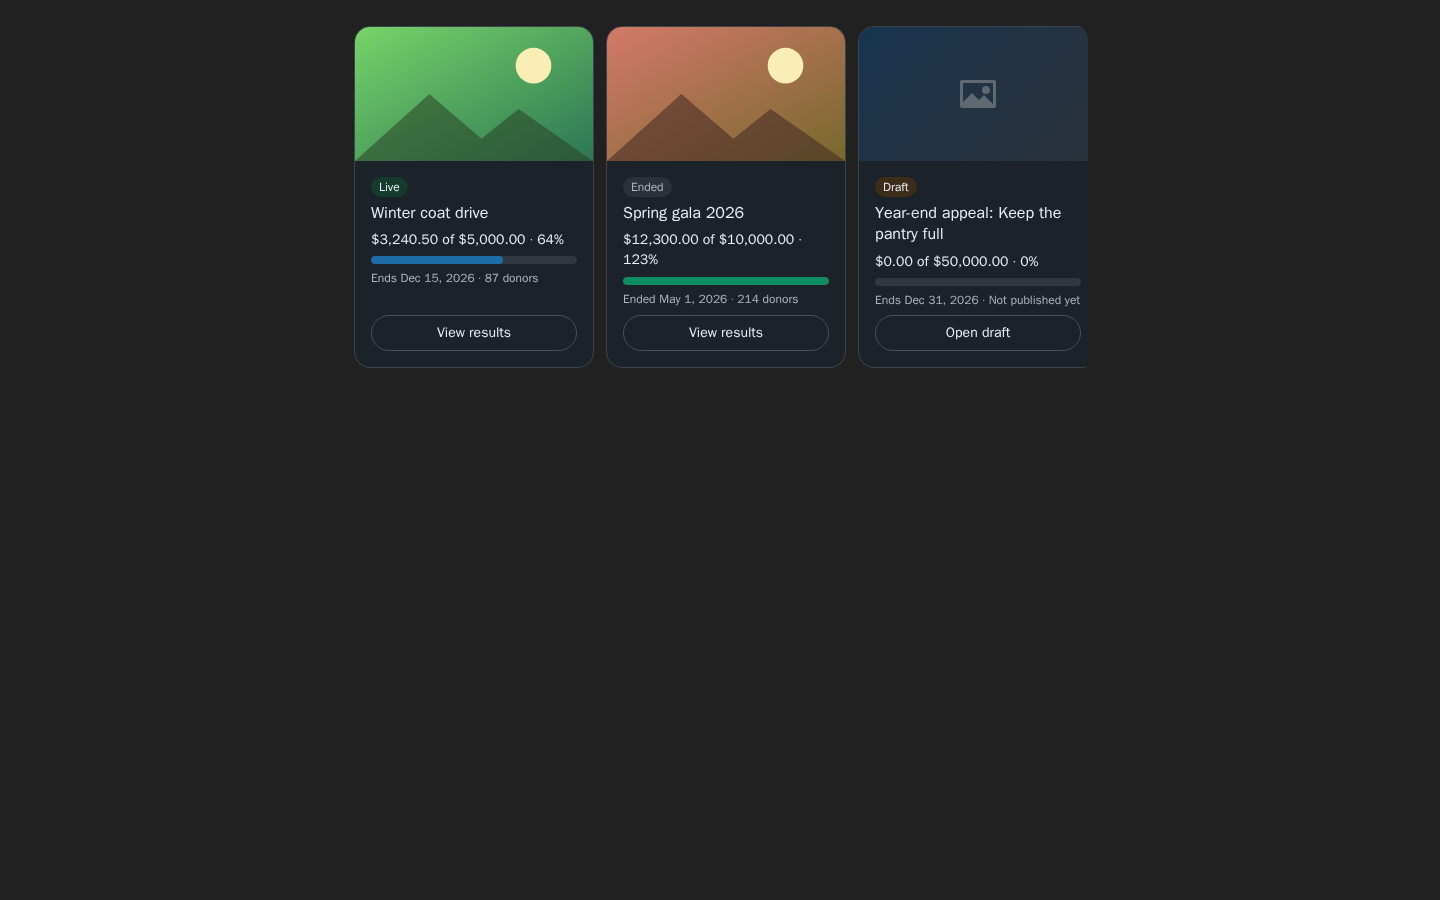
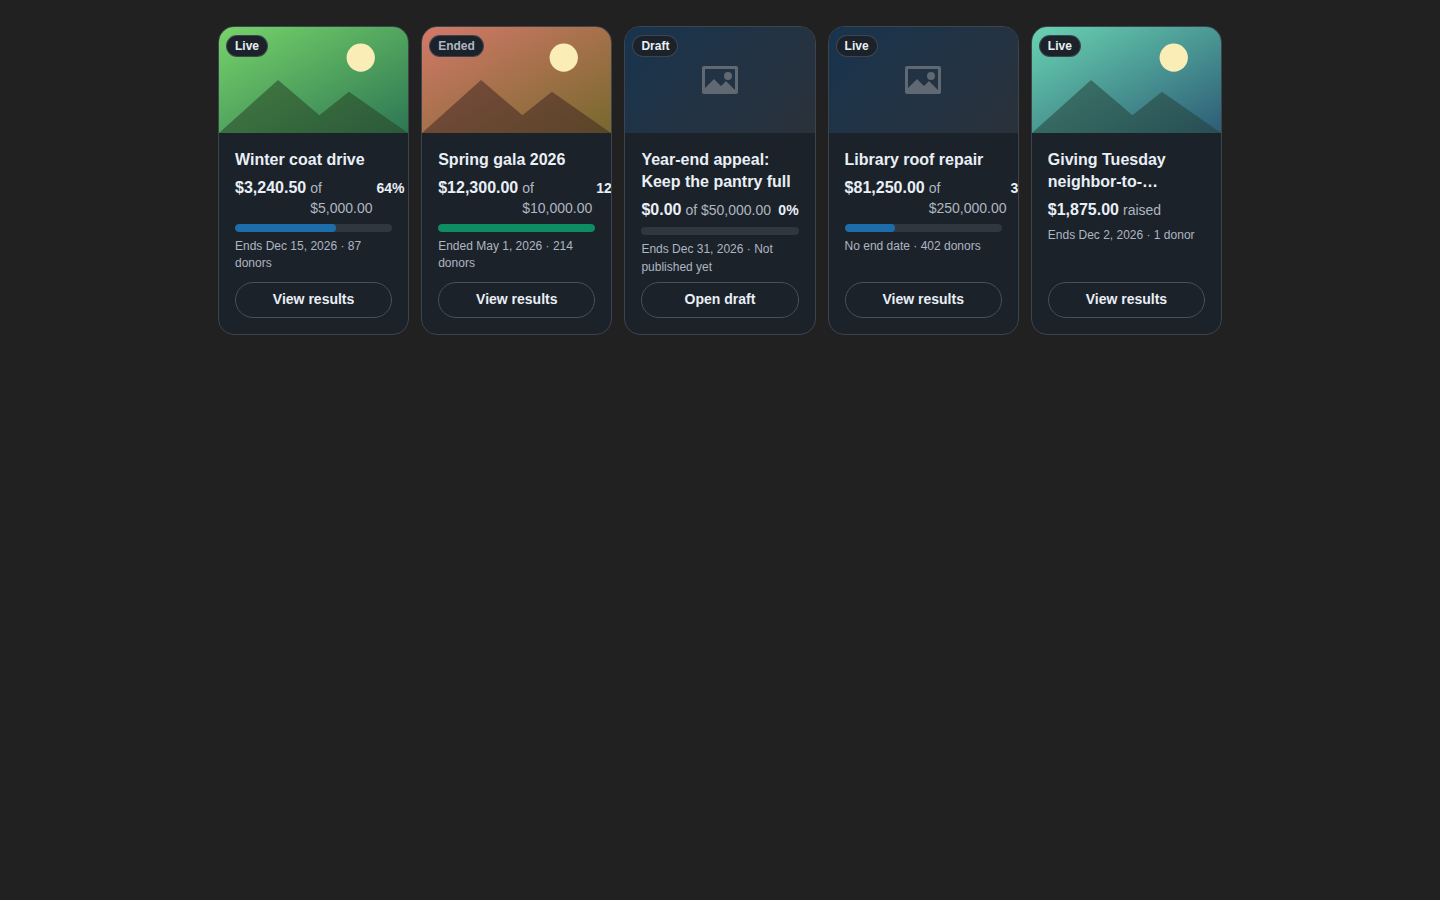
Show every campaign card at once in a wide column and lead with the raised amount

Changed region(s): [[0.125, 0.0311, 0.875, 0.3733], [0.1875, 0.3111, 0.25, 0.3422]]

diff --git a/src/widgets/campaigns/carousel.tsx b/src/widgets/campaigns/carousel.tsx
@@ -7,7 +7,7 @@ import { StatusChip } from "../ui/chip";
 import { ImageWithPlaceholder } from "../ui/image";
 import { ProgressBar, percentOf } from "../ui/progress";
 import { EmptyState } from "../ui/states";
-import { useDate, useMoney } from "../ui/text";
+import { useDate, useWholeMoney } from "../ui/text";
 import { useLocale, useSession } from "../ui/widget";
 import "./carousel.css";
 
@@ -56,7 +56,7 @@ function CampaignTile(props: {
 	onFollowUp: (prompt: string) => Promise<void>;
 }) {
 	const { campaign } = props;
-	const money = useMoney();
+	const money = useWholeMoney();
 	const meta = useMeta();
 	const [busy, setBusy] = useState(false);
 	const percent = percentOf(campaign.raised, campaign.goal);
@@ -67,21 +67,29 @@ function CampaignTile(props: {
 			<Card
 				class="campaign"
 				media={
-					<ImageWithPlaceholder
-						src={campaign.imageUrl}
-						alt=""
-						origins={props.imageOrigins}
-					/>
+					<div class="campaign-media">
+						<ImageWithPlaceholder
+							src={campaign.imageUrl}
+							alt=""
+							origins={props.imageOrigins}
+						/>
+						<span class="campaign-chip">
+							<StatusChip status={campaign.status} />
+						</span>
+					</div>
 				}
 			>
-				<StatusChip status={campaign.status} />
 				<h3 class="campaign-title" id={titleId}>
 					{campaign.title}
 				</h3>
 				<p class="campaign-amounts">
-					{campaign.goal && percent !== null
-						? `${money(campaign.raised)} of ${money(campaign.goal)} · ${percent}%`
-						: `${money(campaign.raised)} raised`}
+					<strong>{money(campaign.raised)}</strong>
+					<span class="muted">
+						{campaign.goal ? ` of ${money(campaign.goal)}` : " raised"}
+					</span>
+					{campaign.goal && percent !== null && (
+						<span class="campaign-percent">{percent}%</span>
+					)}
 				</p>
 				{percent !== null && (
 					<ProgressBar percent={percent} label="Raised of goal" />

diff --git a/src/widgets/campaigns/carousel.test.tsx b/src/widgets/campaigns/carousel.test.tsx
@@ -51,7 +51,7 @@ describe("campaign carousel", () => {
 		const gala = card(root, "Spring gala 2026");
 		expect(gala.querySelector(".chip")?.textContent).toBe("Ended");
 		expect(gala.querySelector(".campaign-amounts")?.textContent).toBe(
-			"$12,300.00 of $10,000.00 · 123%",
+			"$12,300 of $10,000123%",
 		);
 		const bar = gala.querySelector('[role="progressbar"]');
 		expect(bar?.getAttribute("aria-valuenow")).toBe("100");
@@ -65,7 +65,7 @@ describe("campaign carousel", () => {
 			"Giving Tuesday neighbor-to-neighbor match for families across the harbor district",
 		);
 		expect(tuesday.querySelector(".campaign-amounts")?.textContent).toBe(
-			"$1,875.00 raised",
+			"$1,875 raised",
 		);
 		expect(tuesday.querySelector('[role="progressbar"]')).toBeNull();
 		expect(tuesday.querySelector(".campaign-meta")?.textContent).toBe(
@@ -124,7 +124,7 @@ describe("campaign carousel", () => {
 			card(root, "Spring gala 2026").querySelector(".campaign-amounts")
 				?.textContent,
 		).toBe(
-			`${formatMoney("12300.00", "USD", "de-DE")} of ${formatMoney("10000.00", "USD", "de-DE")} · 123%`,
+			`${formatMoney("12300.00", "USD", "de-DE", { dropZeroCents: true })} of ${formatMoney("10000.00", "USD", "de-DE", { dropZeroCents: true })}123%`,
 		);
 		// the dollar stays a dollar: German separators, never a conversion to euro
 		expect(formatMoney("12300.00", "USD", "de-DE")).toMatch(/^12\.300,00\s\$$/);

diff --git a/src/widgets/campaigns/carousel.css b/src/widgets/campaigns/carousel.css
@@ -1,4 +1,5 @@
 .campaigns {
+	container-type: inline-size;
 	display: flex;
 	flex-direction: column;
 	gap: 4px;
@@ -47,8 +48,54 @@
 }
 
 .campaign-amounts {
-	font-weight: 600;
+	display: flex;
+	flex-wrap: wrap;
+	align-items: baseline;
+	gap: 0 4px;
+	margin: 0;
 	font-variant-numeric: tabular-nums;
+}
+
+.campaign-amounts strong {
+	font-size: var(--text-base);
+	font-weight: 700;
+}
+
+.campaign-amounts .muted {
+	font-size: var(--text-sm);
+}
+
+.campaign-percent {
+	margin-inline-start: auto;
+	font-size: var(--text-sm);
+	font-weight: 700;
+}
+
+.campaign-media {
+	position: relative;
+}
+
+.campaign-chip {
+	position: absolute;
+	top: 8px;
+	left: 8px;
+}
+
+.campaign-chip .chip {
+	background: var(--surface);
+	box-shadow: 0 0 0 1px var(--border);
+}
+
+.campaign-title {
+	font-size: var(--text-base);
+}
+
+/* wide enough: every card at once; narrower, the row scrolls */
+@container (min-width: 900px) {
+	.carousel {
+		grid-auto-columns: minmax(0, 1fr);
+		overflow-x: visible;
+	}
 }
 
 .campaign-meta {

diff --git a/test/widget-host/fixtures.ts b/test/widget-host/fixtures.ts
@@ -26,6 +26,8 @@ export type Fixture = {
 	calls?: Record<string, (args: Record<string, unknown>) => ToolReply>;
 	/** Buttons the screenshot presses, by accessible name, once the widget has rendered. */
 	click?: string[];
+	/** The chat column's width in px, where it isn't the default. */
+	column?: number;
 };
 
 export const IMAGE_ORIGINS = [
@@ -300,7 +302,7 @@ export const PHOTO: PhotoData = {
 
 export const FIXTURES: Partial<Record<WidgetName, Record<string, Fixture>>> = {
 	campaigns: {
-		five: { result: { structuredContent: CAMPAIGNS } },
+		five: { result: { structuredContent: CAMPAIGNS }, column: 1040 },
 		empty: {
 			result: {
 				structuredContent: { ...CAMPAIGNS, campaigns: [] },

diff --git a/test/widget-host/page.ts b/test/widget-host/page.ts
@@ -71,11 +71,13 @@ export function hostPage(options: {
 	theme: Theme;
 	fullscreen: boolean;
 	openai?: OpenAiSeed;
+	/** The chat column's width; a wider host shows more of a carousel. */
+	column?: number;
 }): string {
 	const { bg, fg } = BACKDROP[options.theme];
 	const column = options.fullscreen
 		? "width:100%;height:100vh;"
-		: `width:100%;max-width:${COLUMN}px;margin:0 auto;padding:24px 16px;`;
+		: `width:100%;max-width:${options.column ?? COLUMN}px;margin:0 auto;padding:24px 16px;`;
 	const frameHeight = options.fullscreen ? "100%" : "120px";
 	return `<!doctype html>
 <html lang="en" style="color-scheme:${options.theme}">

diff --git a/test/widget-host/browser.ts b/test/widget-host/browser.ts
@@ -85,7 +85,13 @@ export async function showWidget(
 			}
 		: undefined;
 	await page.setContent(
-		hostPage({ html, theme: options.theme, fullscreen, openai }),
+		hostPage({
+			html,
+			theme: options.theme,
+			fullscreen,
+			openai,
+			column: fixture.column,
+		}),
 	);
 	await withTimeout(fake.served, "the widget never initialized");
 	if (!fullscreen) await withTimeout(sized.promise, "the widget never sized");
